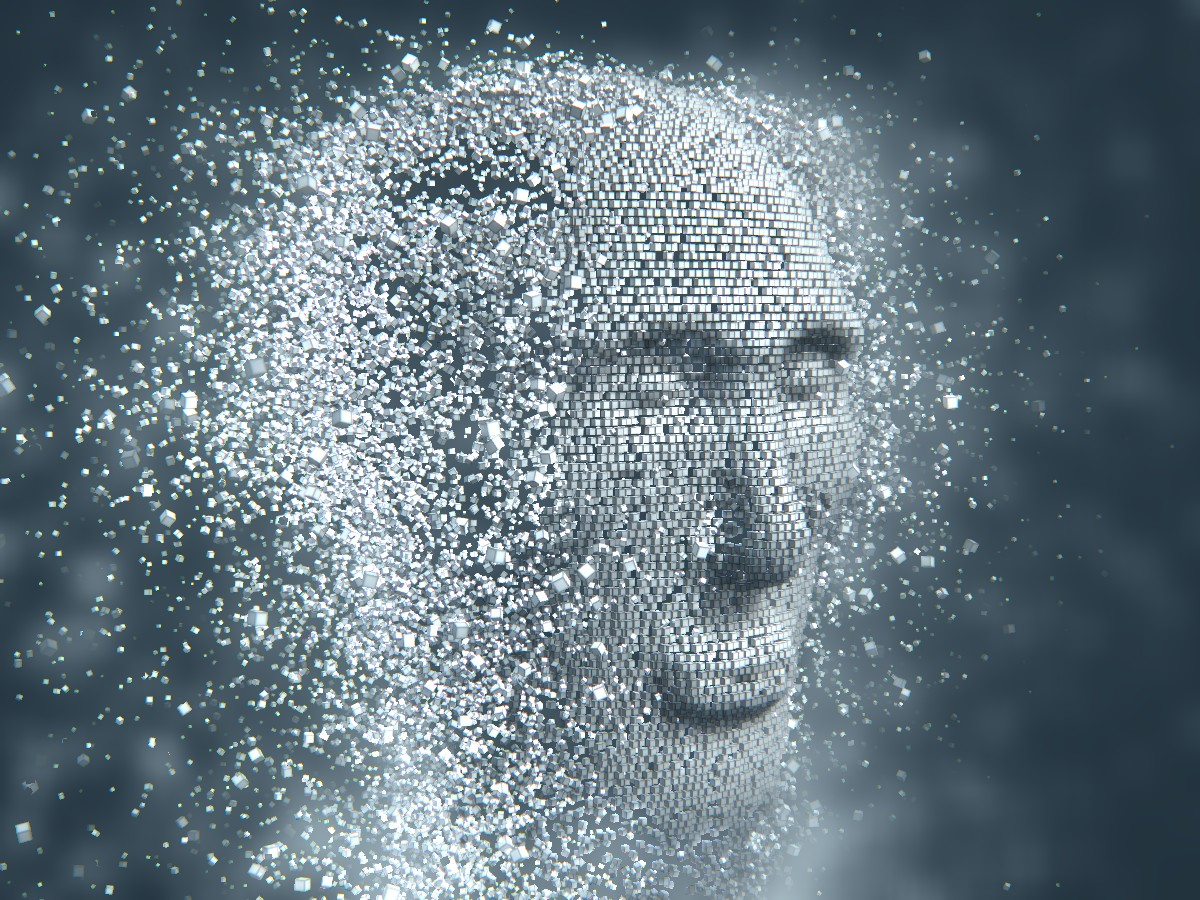
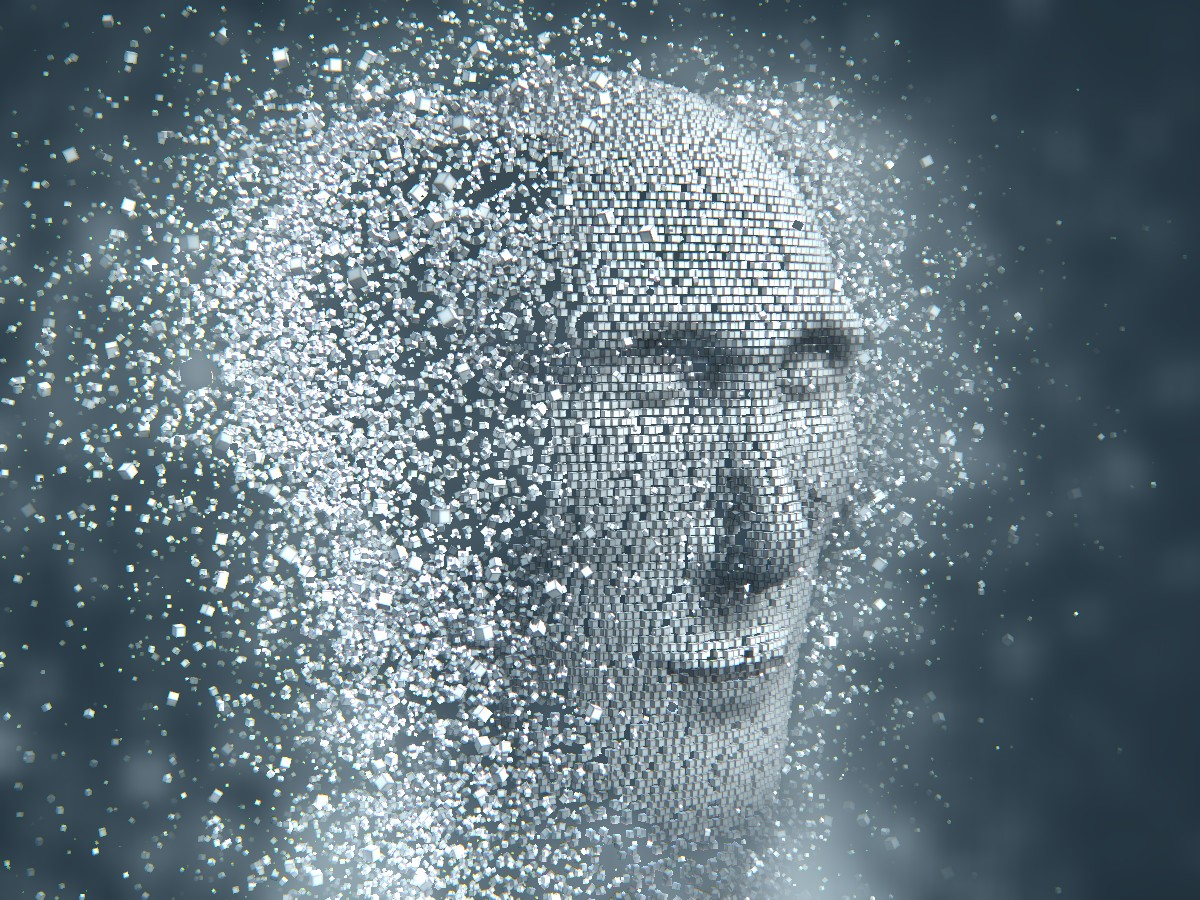
Particle voxel head: neutral mouths and ambient cloud life
Lips now wrap the dental arch, with a cupid's bow, a philtrum, and an
upper lip overhanging a set-back lower lip, so closed mouths read as
neutral at 2-3 cubes tall instead of a flat slab or a grin.

New uAmbient stage: released cubes stream out along per-cube lanes with
a seamless fade loop and a two-octave curl current, while pinned cubes
hold still. Evidence refreshed: hero-t9 shows the cloud moving against a
static face. Divine Eye now scores 0.8505 (target 0.85), a marginal pass
on soft signals only.

Claude-Session: https://claude.ai/code/session_01CUTbGkAqTLiYATFJD2wn94

diff --git a/examples/particle-voxel-head/src/main.js b/examples/particle-voxel-head/src/main.js
@@ -126,7 +126,7 @@ const morphU = {
   uProgress: { value: 0 }, uTime: { value: 0 },
   uDispersion: { value: 0.7 }, uChaos: { value: 0.55 }, uMotion: { value: 1 },
   uIdle: { value: 1 }, uIdleDrift: { value: 1 }, uIdleSpeed: { value: 0.6 },
-  uDissolve: { value: 0.40 },
+  uDissolve: { value: 0.40 }, uAmbient: { value: 0.7 },
 };
 const morphPass = pass(MORPH_FRAG, morphU);
 const simU = {
@@ -258,10 +258,10 @@ function finishMorph() {
 
 // ------------------------------------------------------------------ UI
 const ui = {
-  dissolve: $('dissolve'), chaos: $('chaos'), disp: $('disp'), mot: $('mot'), glow: $('glow'), dof: $('dof'),
+  dissolve: $('dissolve'), ambient: $('ambient'), chaos: $('chaos'), disp: $('disp'), mot: $('mot'), glow: $('glow'), dof: $('dof'),
   breathe: $('breathe'), cycle: $('cycle'),
 };
-const outIds = { dissolve: 'vDs', chaos: 'vC', disp: 'vD', mot: 'vM', glow: 'vG', dof: 'vF' };
+const outIds = { dissolve: 'vDs', ambient: 'vA', chaos: 'vC', disp: 'vD', mot: 'vM', glow: 'vG', dof: 'vF' };
 function syncUI() { for (const k in outIds) $(outIds[k]).textContent = (+ui[k].value).toFixed(2); }
 for (const k in outIds) ui[k].addEventListener('input', () => { if (k === 'dissolve') ui.breathe.checked = false; syncUI(); });
 if (matchMedia('(prefers-reduced-motion: reduce)').matches) { ui.breathe.checked = false; ui.cycle.checked = false; }
@@ -338,6 +338,7 @@ function frame(now) {
   morphU.uTime.value = clock;
   morphU.uDissolve.value = Math.min(1, +ui.dissolve.value + lift);
   morphU.uChaos.value = +ui.chaos.value;
+  morphU.uAmbient.value = +ui.ambient.value;
   morphU.uDispersion.value = +ui.disp.value;
   morphU.uMotion.value = +ui.mot.value;
   cubeU.uTime.value = clock;
@@ -409,12 +410,13 @@ const waitFrames = (n) => new Promise((resolve) => {
   requestAnimationFrame(tick);
 });
 window.__IMG2THREEJS_CAPTURE__ = {
-  async setState({ time = 6, dissolve, preset, chaos, dof } = {}) {
+  async setState({ time = 6, dissolve, preset, chaos, dof, ambient } = {}) {
     ui.breathe.checked = false; ui.cycle.checked = false;
     document.body.classList.add('capture'); // review frames show the render only
     frozen = { time };
     if (dissolve !== undefined) ui.dissolve.value = dissolve;
     if (chaos !== undefined) ui.chaos.value = chaos;
+    if (ambient !== undefined) ui.ambient.value = ambient;
     if (dof !== undefined) ui.dof.value = dof;
     syncUI();
     if (preset && preset !== currentKey) {

diff --git a/examples/particle-voxel-head/src/heads.js b/examples/particle-voxel-head/src/heads.js
@@ -147,11 +147,25 @@ export function makeHeadSDF(P) {
       P.noseW * 0.55, P.noseW * 0.7), 0.08);
     d = smax(d, -sdEllipsoid(x, y - (P.noseTipY - 0.17), z - 0.84, 0.03, 0.07, 0.05), 0.04);
 
-    // Lips and the mouth line between them.
-    d = smin(d, sdEllipsoid(x, y - (P.mouthY + 0.04), z - 0.69, P.mouthW, P.lip, 0.1), 0.1);
-    d = smin(d, sdEllipsoid(x, y - (P.mouthY - 0.06), z - 0.68, P.mouthW * 0.88, P.lip * 1.1, 0.1), 0.1);
-    d = smax(d, -sdEllipsoid(x, y - P.mouthY, z - 0.79, P.mouthW * 0.85, 0.008, 0.05), 0.015);
-
+    // Lips wrap around the dental arch: depth falls off with x², so the corners tuck
+    // back into the cheeks instead of the mouth reading as a flat slab (which, lit
+    // from above, looked like a grin).
+    const u = x / P.mouthW;
+    const zl = z + 0.55 * x * x;
+    // Upper lip with a cupid's bow dip at the centre, under a shallow philtrum groove.
+    // It overhangs the lower lip: at this lattice pitch (lips are 2-3 cubes tall) the
+    // mouth reads through that depth step, not through a hairline carve.
+    const bow = 0.012 * Math.exp(-u * u * 40);
+    d = smin(d, sdEllipsoid(x, y - (P.mouthY + 0.035 - bow), zl - 0.685, P.mouthW * 0.92, P.lip * 0.85, 0.085), 0.09);
+    d = smax(d, -sdEllipsoid(x, y - (P.mouthY + 0.11), z - 0.80, 0.022, 0.055, 0.03), 0.03);
+    // Lower lip: short and set back, so the shadow under it stays a small pad rather
+    // than a long upturned curve (which read as a smile).
+    d = smin(d, sdEllipsoid(x, y - (P.mouthY - 0.055), zl - 0.635, P.mouthW * 0.6, P.lip * 0.95, 0.08), 0.1);
+    // Mouth line: closed and neutral, half a cube tall so the lattice resolves it,
+    // fading out before the corners.
+    d = smax(d, -sdEllipsoid(x, y - (P.mouthY + 0.004 * u * u), zl - 0.765, P.mouthW * 0.82, 0.012, 0.06), 0.012);
+    // Corners tuck in with a small dimple each side.
+    d = smax(d, -sdEllipsoid(ax - P.mouthW * 0.9, y - P.mouthY, zl - 0.72, 0.03, 0.025, 0.05), 0.03);
     return d;
   }
 }

diff --git a/examples/particle-voxel-head/src/shaders.js b/examples/particle-voxel-head/src/shaders.js
@@ -77,6 +77,7 @@ uniform float uIdle;
 uniform float uIdleDrift;
 uniform float uIdleSpeed;
 uniform float uDissolve;
+uniform float uAmbient;
 
 layout(location = 0) out vec4 outPos;   // xyz cube centre, w dissolve amount
 layout(location = 1) out vec4 outAttr;  // ao, baked key light, cube scale, albedo
@@ -213,9 +214,23 @@ void main() {
   pos.xy += (drift + loop * 3.0) * td * uIdleDrift * uMotion * uIdle;
   pos.z += sin(clockIdle * 0.7 + seed.z * TAU) * 0.04 * td * uIdleDrift * uMotion * uIdle;
 
+  // Ambient life (uAmbient): the head never stops shedding. Each free cube streams out
+  // along its own lane and rises a little, fading out at the far end and back in near
+  // the head, so the loop has no visible seam. A slow two-octave curl current carries
+  // the whole cloud on top of that.
+  float free = smoothstep(0.85, 1.0, td) * uAmbient * uMotion;
+  vec3 lane = normalize(vec3(scatter.x, scatter.y * 0.35 + 0.3, scatter.z * 0.5) + (seed.xyz - 0.5) * 0.6);
+  float life = fract(seed.z + uTime * (0.02 + 0.03 * seed.x));
+  pos += lane * life * (0.25 + 0.45 * seed.w) * free;
+  float fade = mix(1.0, smoothstep(0.0, 0.12, life) * (1.0 - smoothstep(0.75, 1.0, life)), free);
+  vec2 current = curl(pos.xy * 0.55 + vec2(uTime * 0.03, uTime * 0.02)) * 0.07
+    + curl(pos.xy * 1.6 - vec2(0.0, uTime * 0.06)) * 0.02;
+  pos.xy += current * td * uAmbient * uMotion;
+  pos.z += (vnoise(pos.xy * 0.8 + uTime * 0.05) - 0.5) * 0.12 * td * uAmbient * uMotion;
+
   vec4 attr = mix(aa, ab, m.t);
   float restScale = attr.b;
-  float driftScale = mix(sa.w, sb.w, m.t);
+  float driftScale = mix(sa.w, sb.w, m.t) * fade;
   outPos = vec4(pos, td);
   outAttr = vec4(mix(attr.r, 1.0, td), mix(attr.g, 0.85, td), mix(restScale, driftScale, td), attr.a);
 }

diff --git a/examples/particle-voxel-head/index.html b/examples/particle-voxel-head/index.html
@@ -84,6 +84,10 @@ button:hover,select:hover{border-color:var(--accent)}
       <input id="dissolve" type="range" min="0" max="1" step="0.001" value="0.40" aria-label="uDissolve">
     </div>
     <label class="toggle"><input id="breathe" type="checkbox" checked>breathe</label>
+    <div class="ctl">
+      <div class="row"><span class="u">uAmbient</span><span class="v" id="vA">0.70</span></div>
+      <input id="ambient" type="range" min="0" max="1" step="0.01" value="0.7" aria-label="uAmbient">
+    </div>
   </div>
   <div class="group">
     <h2>Field</h2>

diff --git a/examples/particle-voxel-head/evidence/REVIEW.md b/examples/particle-voxel-head/evidence/REVIEW.md
@@ -10,6 +10,7 @@
 | View | Camera (az/el) | Dissolve | Purpose |
 | --- | --- | --- | --- |
 | `hero` | 0° / 0° | 0.40 (default) | fixed reference view |
+| `hero-t9` | 0° / 0° | 0.40 | same view 3 s later: ambient cloud motion |
 | `orbit-plus35`, `orbit-minus35` | ±35° / 0°, 5° | 0.40 | orbit views |
 | `profile-intact` | 80° / 0° | 0.00 | full 3D form, nothing released |
 | `hero-intact`, `hero-scattered` | 0° / 0° | 0.00 / 0.72 | dissolve range |
@@ -23,14 +24,17 @@ which is git-ignored.
 
 | Gate | Result | What it actually tells us |
 | --- | --- | --- |
-| `diagnose_render.py` | `passed: true`, IoU 0.9987 | **Not meaningful here.** Both masks report "not clearly isolated from background" and fall back to most of the frame. The silhouette numbers compare two near-full-frame masks. |
-| `divine_eye.py` | **reject → refine-code**, fidelity **0.8455** (target 0.85) | SSIM 0.725, pHash 0.719, edge overlap 0.725, tonal parity 0.816, objectness 0.870. Hard gates are vacuous for the same mask reason. |
+| `diagnose_render.py` (round 1) | `passed: true`, IoU 0.9987 | **Not meaningful here.** Both masks report "not clearly isolated from background" and fall back to most of the frame. The silhouette numbers compare two near-full-frame masks. |
+| `diagnose_render.py` (round 2) | `passed: true`, IoU 0.9995 | Same caveat: degenerate masks. |
+| `divine_eye.py` (round 2) | **pass**, fidelity **0.8505** (target 0.85) | A marginal pass. SSIM 0.728, pHash 0.719, edge overlap 0.733, tonal parity 0.828, objectness 0.892. Hard gates are vacuous for the same mask reason. Round 1 scored 0.8455 (reject). |
 | `diagnose_render_multi_angle.py` | not degenerate | **Also not meaningful.** Foreground area is ≈ 0.999 of every frame because the cloud fills it. The orbit renders themselves (read back) show a closed 3D head, not a billboard. |
 
-The gates assume one isolated object on a plain backdrop. A frame that is mostly particle cloud
-is outside what they measure, so none of them is claimed as a pass.
+The silhouette gates assume one isolated object on a plain backdrop. A frame that is mostly
+particle cloud is outside what they measure, so their passes are not claimed. Divine Eye's round 2
+pass rests only on its soft signals, and by 0.0005, so treat it as "at target", not "comfortably
+past it".
 
-## Correction loop (2 of 3 allowed)
+## Correction loop, round 1 (2 of 3 allowed)
 
 | Iteration | Change | Divine Eye fidelity |
 | --- | --- | --- |
@@ -42,22 +46,35 @@ The second correction made the frame brighter and busier and lowered tonal parit
 reverted. The score has plateaued about 0.005 under target. Further tuning would be fitting a
 64×64 luma metric rather than the design, so the loop stops here, at **request-input**.
 
+## Round 2 (user feedback: mouths, more ambient life)
+
+- **Mouths:** lips now wrap the dental arch (depth falls off with x²), with a cupid's bow,
+  a philtrum groove, and an upper lip overhanging a shorter, set-back lower lip. The mouth line
+  is half a cube tall so the lattice resolves it, and the corners dimple in. A crop comparison
+  across all five heads showed the flat slab and grin gone. The elder head keeps a faint
+  upturn from its deeper nasolabial folds.
+- **Ambient life (`uAmbient`, default 0.7):** free cubes stream out along per-cube lanes,
+  rising and fading at the far end, on a two-octave curl current; pinned cubes hold still.
+  Between `hero` (t = 6 s) and `hero-t9` (t = 9 s), the mean absolute pixel difference is 19.1
+  over the cloud at the frame sides against 12.7 over the face centre (that region also holds
+  released rim cubes). The difference heatmap is dark over the head and bright over the cloud.
+
 ## AI-vision review (agent, against the local comparison sheet)
 
-Global semantic score: **0.72**, a stylized match.
+Global semantic score: **0.74** (round 1: 0.72), a stylized match.
 
 | Feature | Score | Notes |
 | --- | --- | --- |
 | Composition and framing | 0.80 | Head centred and the same size; crown about 8% from the top, chin at about 80%. |
 | Pin-art voxel surface | 0.72 | Regular cube lattice with continuous depth and random recesses reads as in the photo. The photo's speckle (random dark gaps) is denser. |
-| Facial features | 0.62 | Eye sockets, brow, nose and nose shadow read well. The lower lip and chin form a curved band that reads slightly like a smile; the photo's mouth is flatter and darker. |
+| Facial features | 0.70 | Eye sockets, brow, nose and nose shadow read well. Round 2: the mouth is closed and neutral (it read as a grin before). The photo's mouth region is still darker overall. |
 | Silhouette dissolve and cloud | 0.68 | The rim crumbles first and the face front holds, as in the photo. The photo's halo is denser and whiter right at the head, and its far background is cleaner and darker. |
 | Palette and lighting | 0.75 | Slate backdrop, white cubes and blue-grey shadow match. Lighting comes from above. |
 
 ## What still differs
 
 - The cloud halo is less dense close to the head; the far field is greyer.
-- The mouth and chin region reads as a slight smile.
+- The elder preset's mouth keeps a faint upturn.
 - Cube speckle is more regular than in the photo.
 - The back of the head is inferred: a single front view cannot show it.
 - This is a stylized design recreation, not a likeness of a particular person.

diff --git a/examples/particle-voxel-head/README.md b/examples/particle-voxel-head/README.md
@@ -37,17 +37,17 @@ Controls:
 - Drag to orbit; double-click to reset the view.
 - Move the pointer to push cubes; they spring back.
 - The panel picks a head (five presets, or a seeded random face).
-- Sliders set the dissolve amount and the rig uniforms (`uChaos`, `uDispersion`, `uMotion`, `uGlow`) plus depth of field.
+- Sliders set the dissolve amount, the ambient life of the free cloud (`uAmbient`), the rig uniforms (`uChaos`, `uDispersion`, `uMotion`, `uGlow`) and depth of field.
 - With "cycle heads" on, the page morphs through the heads every 12 s, passing through the curl field.
 
 ## How it is built
 
 | Stage | File | What it does |
 | --- | --- | --- |
-| Head SDF | `src/heads.js` | Smooth-unioned ellipsoids and capsules: cranium, face, jaw, cheekbones, brow, carved sockets with closed lids, nose bridge, tip and alae, lips, ears, neck. All presets and random faces are parameter sets over one field. |
+| Head SDF | `src/heads.js` | Smooth-unioned ellipsoids and capsules: cranium, face, jaw, cheekbones, brow, carved sockets with closed lids, nose bridge, tip and alae, lips wrapped around the dental arch (cupid's bow, philtrum, an upper lip overhanging a set-back lower lip so the closed mouth reads at 2–3 cubes tall), ears, neck. All presets and random faces are parameter sets over one field. |
 | Pin-art sampling | `src/heads.js` | Rays on a regular lattice along ±x, ±y, ±z. The front lattice owns every front-visible surface, so the face is one uninterrupted grid of columns with continuous depth, plus random recesses. AO and a soft-shadowed surface diffuse term are baked per cube. Runs in a Web Worker (~1 s per head), or on the main thread from `file://`. |
 | Cell layout | `src/heads.js` | Cubes are Morton-ordered so a morph maps forehead to forehead. They are spread over the 224×224 particle cells; the free cells become the cloud. Each cube gets a scatter target outward and sideways from its surface. |
-| 1a morph | `MORPH_FRAG` | The rig's `morphAt` (head A → head B, curl advection, bow, orbit, idle drift), extended to 3D, followed by a second staged transition: dissolve into the cloud. |
+| 1a morph | `MORPH_FRAG` | The rig's `morphAt` (head A → head B, curl advection, bow, orbit, idle drift), extended to 3D, followed by a second staged transition: dissolve into the cloud. Free cubes then stream out along their own lanes, rising and fading at the far end, on a slow two-octave curl current (`uAmbient`), while pinned cubes hold still. |
 | 1b spring | `SIM_FRAG` | The rig's pointer spring integrator, unchanged apart from reading the morph result. |
 | 2 cubes | `CUBE_VERT/FRAG` | One instanced box per cell. Pinned cubes stay axis-aligned; released ones tumble. Hemisphere ambient × AO + baked key, with a bevel darkening at the edges. |
 | 3 lens | `COC_FRAG`, `BLUR_FRAG` | A CoC-weighted copy of the frame, blurred with the rig's 5-tap separable blur at half and quarter resolution. |
@@ -57,7 +57,7 @@ Controls:
 
 - **Verbatim:** `hash4`, `vnoise`, `curl`, the quad vertex shader, the blur, and the spring integrator.
 - **`morphAt`:** works on `vec3` cube positions. Curl advection stays in the screen plane; depth rides along and swells mid-flight. The `depth` peel input is the baked surface "forwardness" rather than image luminance. Idle drift applies mid-morph only, so a resting face holds still.
-- **New:** the dissolve stage, the CoC pre-pass, the depth-of-field composite, and the cube shaders.
+- **New:** the dissolve stage, the ambient stream and current, the CoC pre-pass, the depth-of-field composite, and the cube shaders.
 
 ## Review evidence and its limits
 
